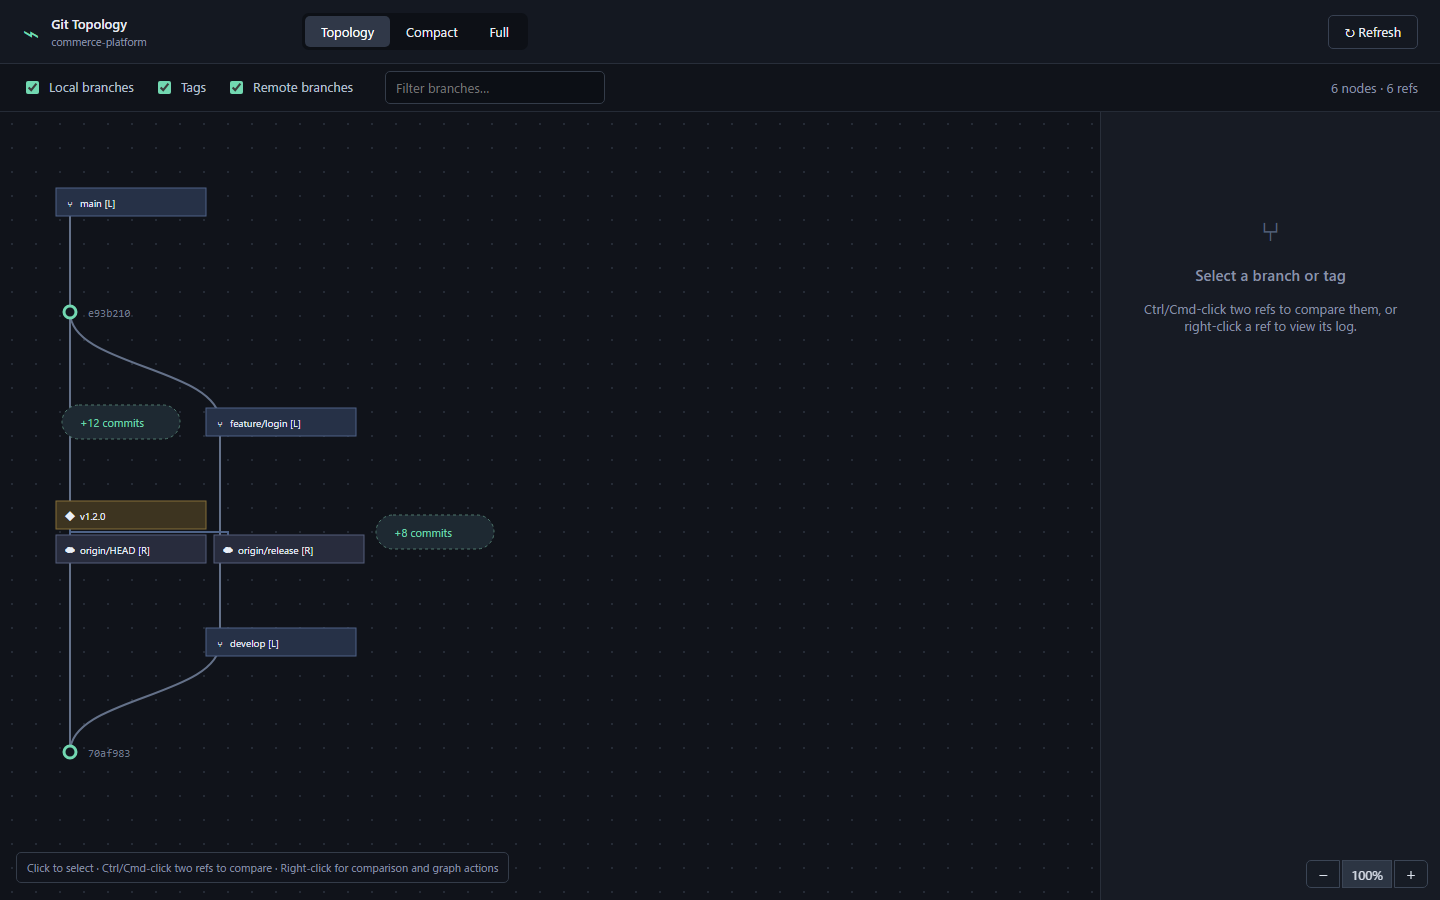
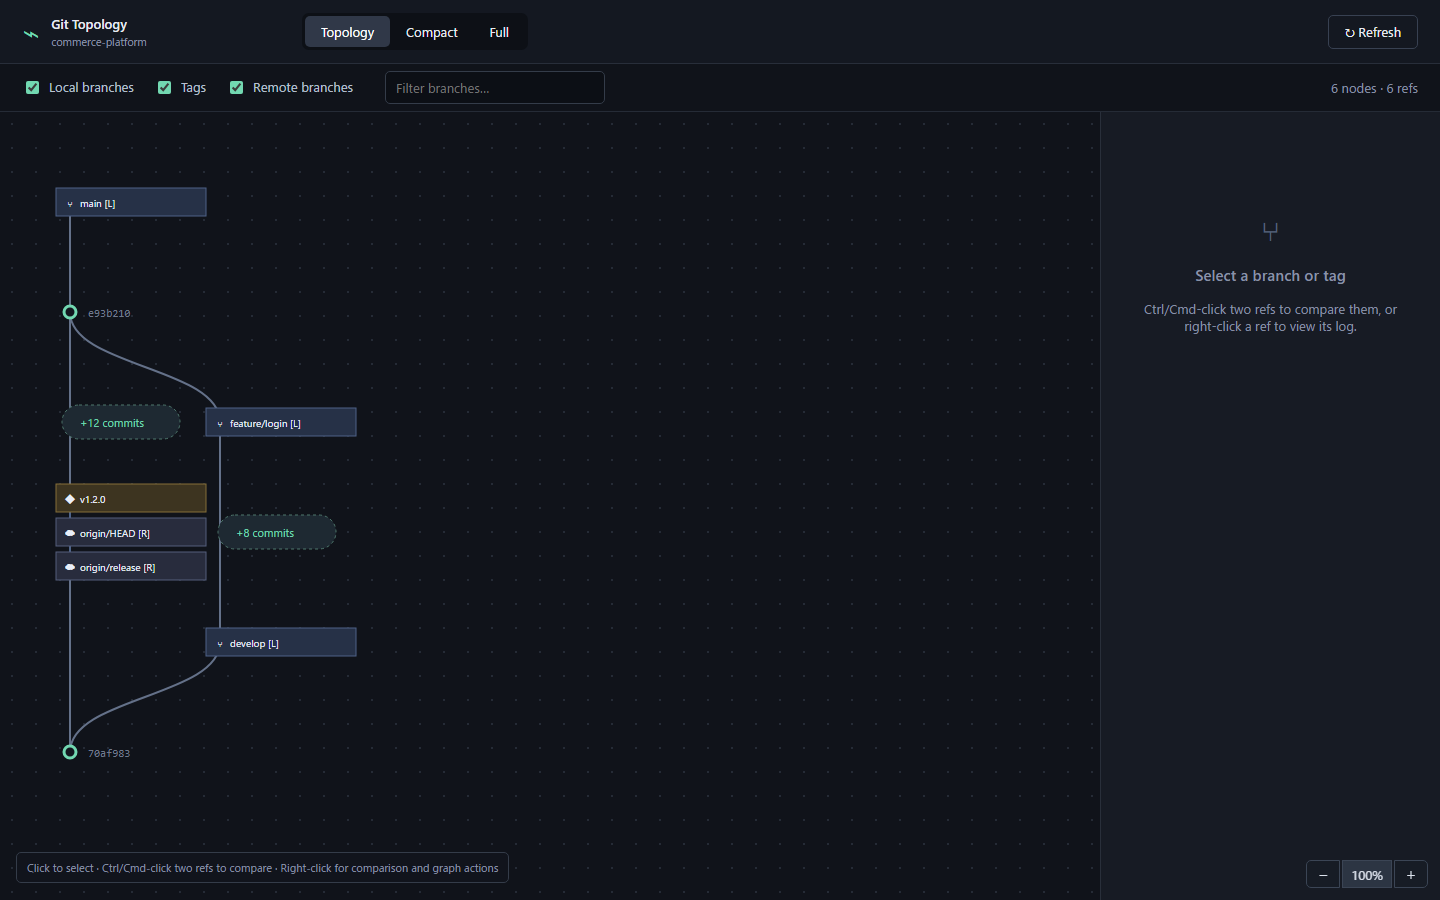
Stack refs vertically at commits

Changed region(s): [[0.0312, 0.5289, 0.3125, 0.6533]]

diff --git a/src/webview/App.tsx b/src/webview/App.tsx
@@ -90,7 +90,7 @@ function Graph({data, allowed, selected, onSelect, onContextMenu}:{data:GraphPay
     if (node.kind !== 'commit') return [];
     const layout = refLayouts.get(node.id)!;
     return layout.refs.map(({ position }) => {
-      return { x: node.x + position.x, y: node.y + position.y, width: 150, height: 28 };
+      return { x: node.x + position.x, y: node.y + position.y, width: REF_WIDTH, height: REF_HEIGHT };
     });
   }).sort((left, right) => left.x - right.x);
   const rangePositions = new Map(data.graph.nodes.filter(node => node.kind === 'range').map(node => {
@@ -127,7 +127,6 @@ function Graph({data, allowed, selected, onSelect, onContextMenu}:{data:GraphPay
 const REF_WIDTH = 150;
 const REF_HEIGHT = 28;
 const REF_ROW_GAP = 6;
-const REF_COLUMN_GAP = 8;
 const REF_ICON_CENTER_X = 14;
 const REF_TYPES: GitRef['type'][] = ['tag', 'localBranch', 'remoteBranch'];
 
@@ -137,12 +136,12 @@ interface RefLayout {
 }
 
 function layoutRefs(refs: GitRef[]): RefLayout {
-  const rows = REF_TYPES.map(type => refs.filter(ref => ref.type === type)).filter(row => row.length > 0);
+  const rows = REF_TYPES.flatMap(type => refs.filter(ref => ref.type === type));
   const firstRowY = -((rows.length * REF_HEIGHT) + ((rows.length - 1) * REF_ROW_GAP)) / 2;
-  const positionedRefs = rows.flatMap((row, rowIndex) => row.map((ref, columnIndex) => ({
+  const positionedRefs = rows.map((ref, rowIndex) => ({
     ref,
-    position: { x: -REF_ICON_CENTER_X + columnIndex * (REF_WIDTH + REF_COLUMN_GAP), y: firstRowY + rowIndex * (REF_HEIGHT + REF_ROW_GAP) }
-  })));
+    position: { x: -REF_ICON_CENTER_X, y: firstRowY + rowIndex * (REF_HEIGHT + REF_ROW_GAP) }
+  }));
   const anchor = positionedRefs[0]
     ? { x: positionedRefs[0].position.x + REF_ICON_CENTER_X, y: positionedRefs[0].position.y + REF_HEIGHT / 2 }
     : { x: 0, y: 0 };
